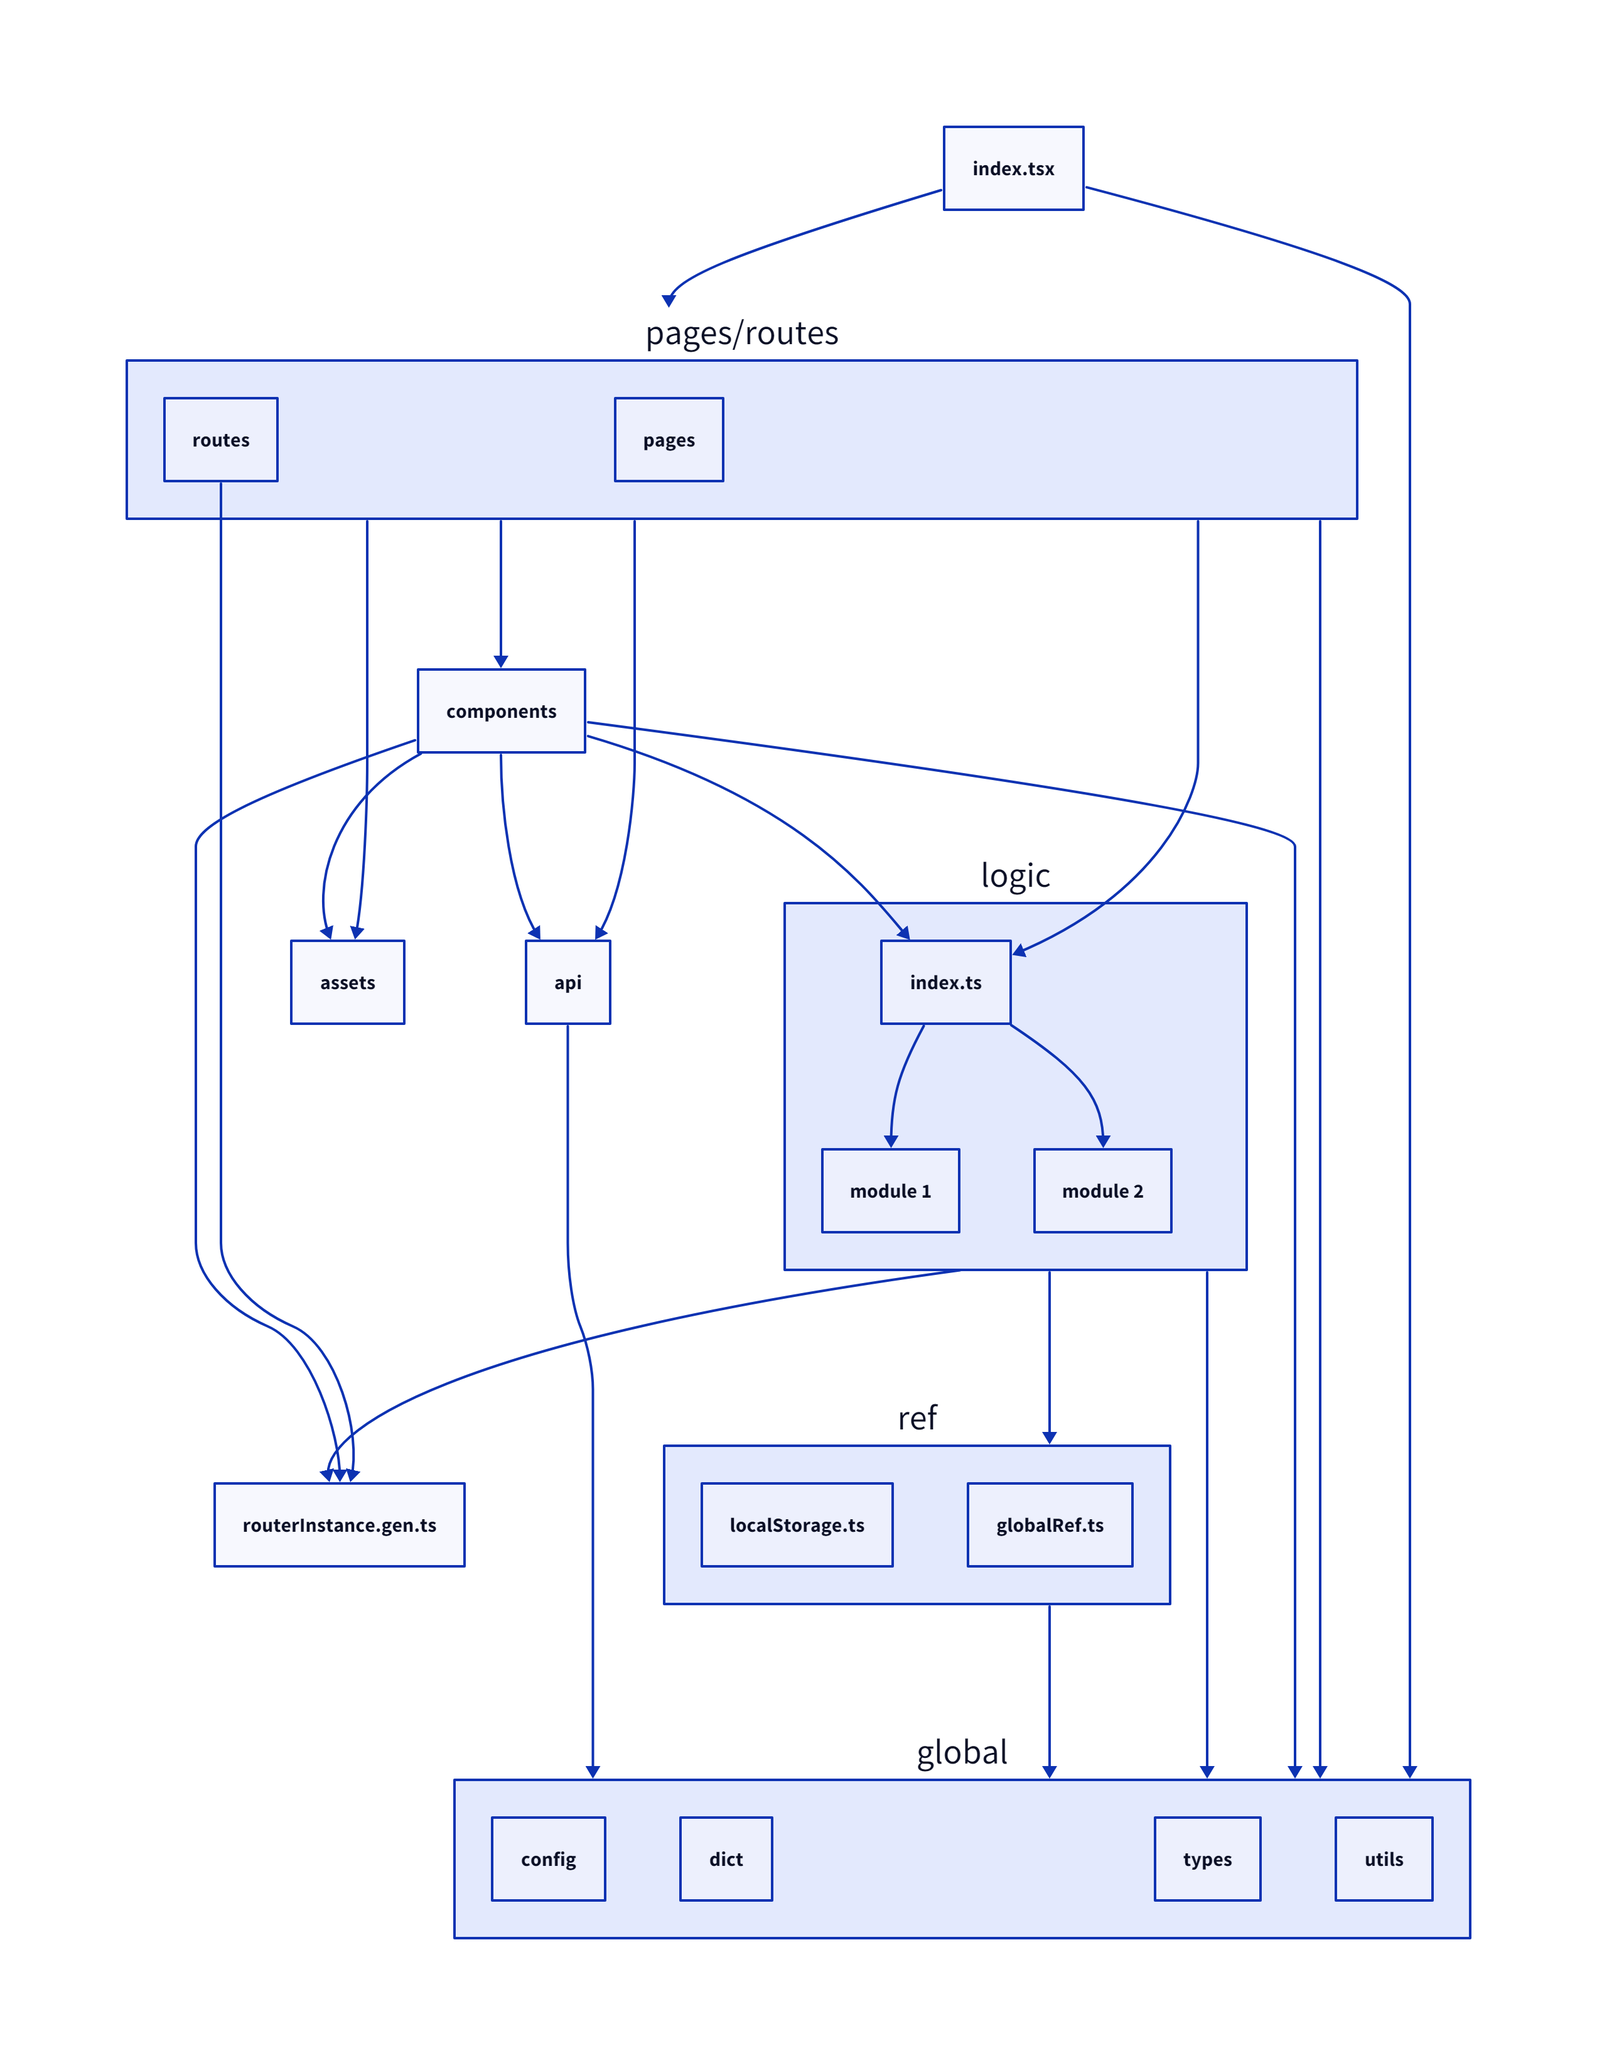
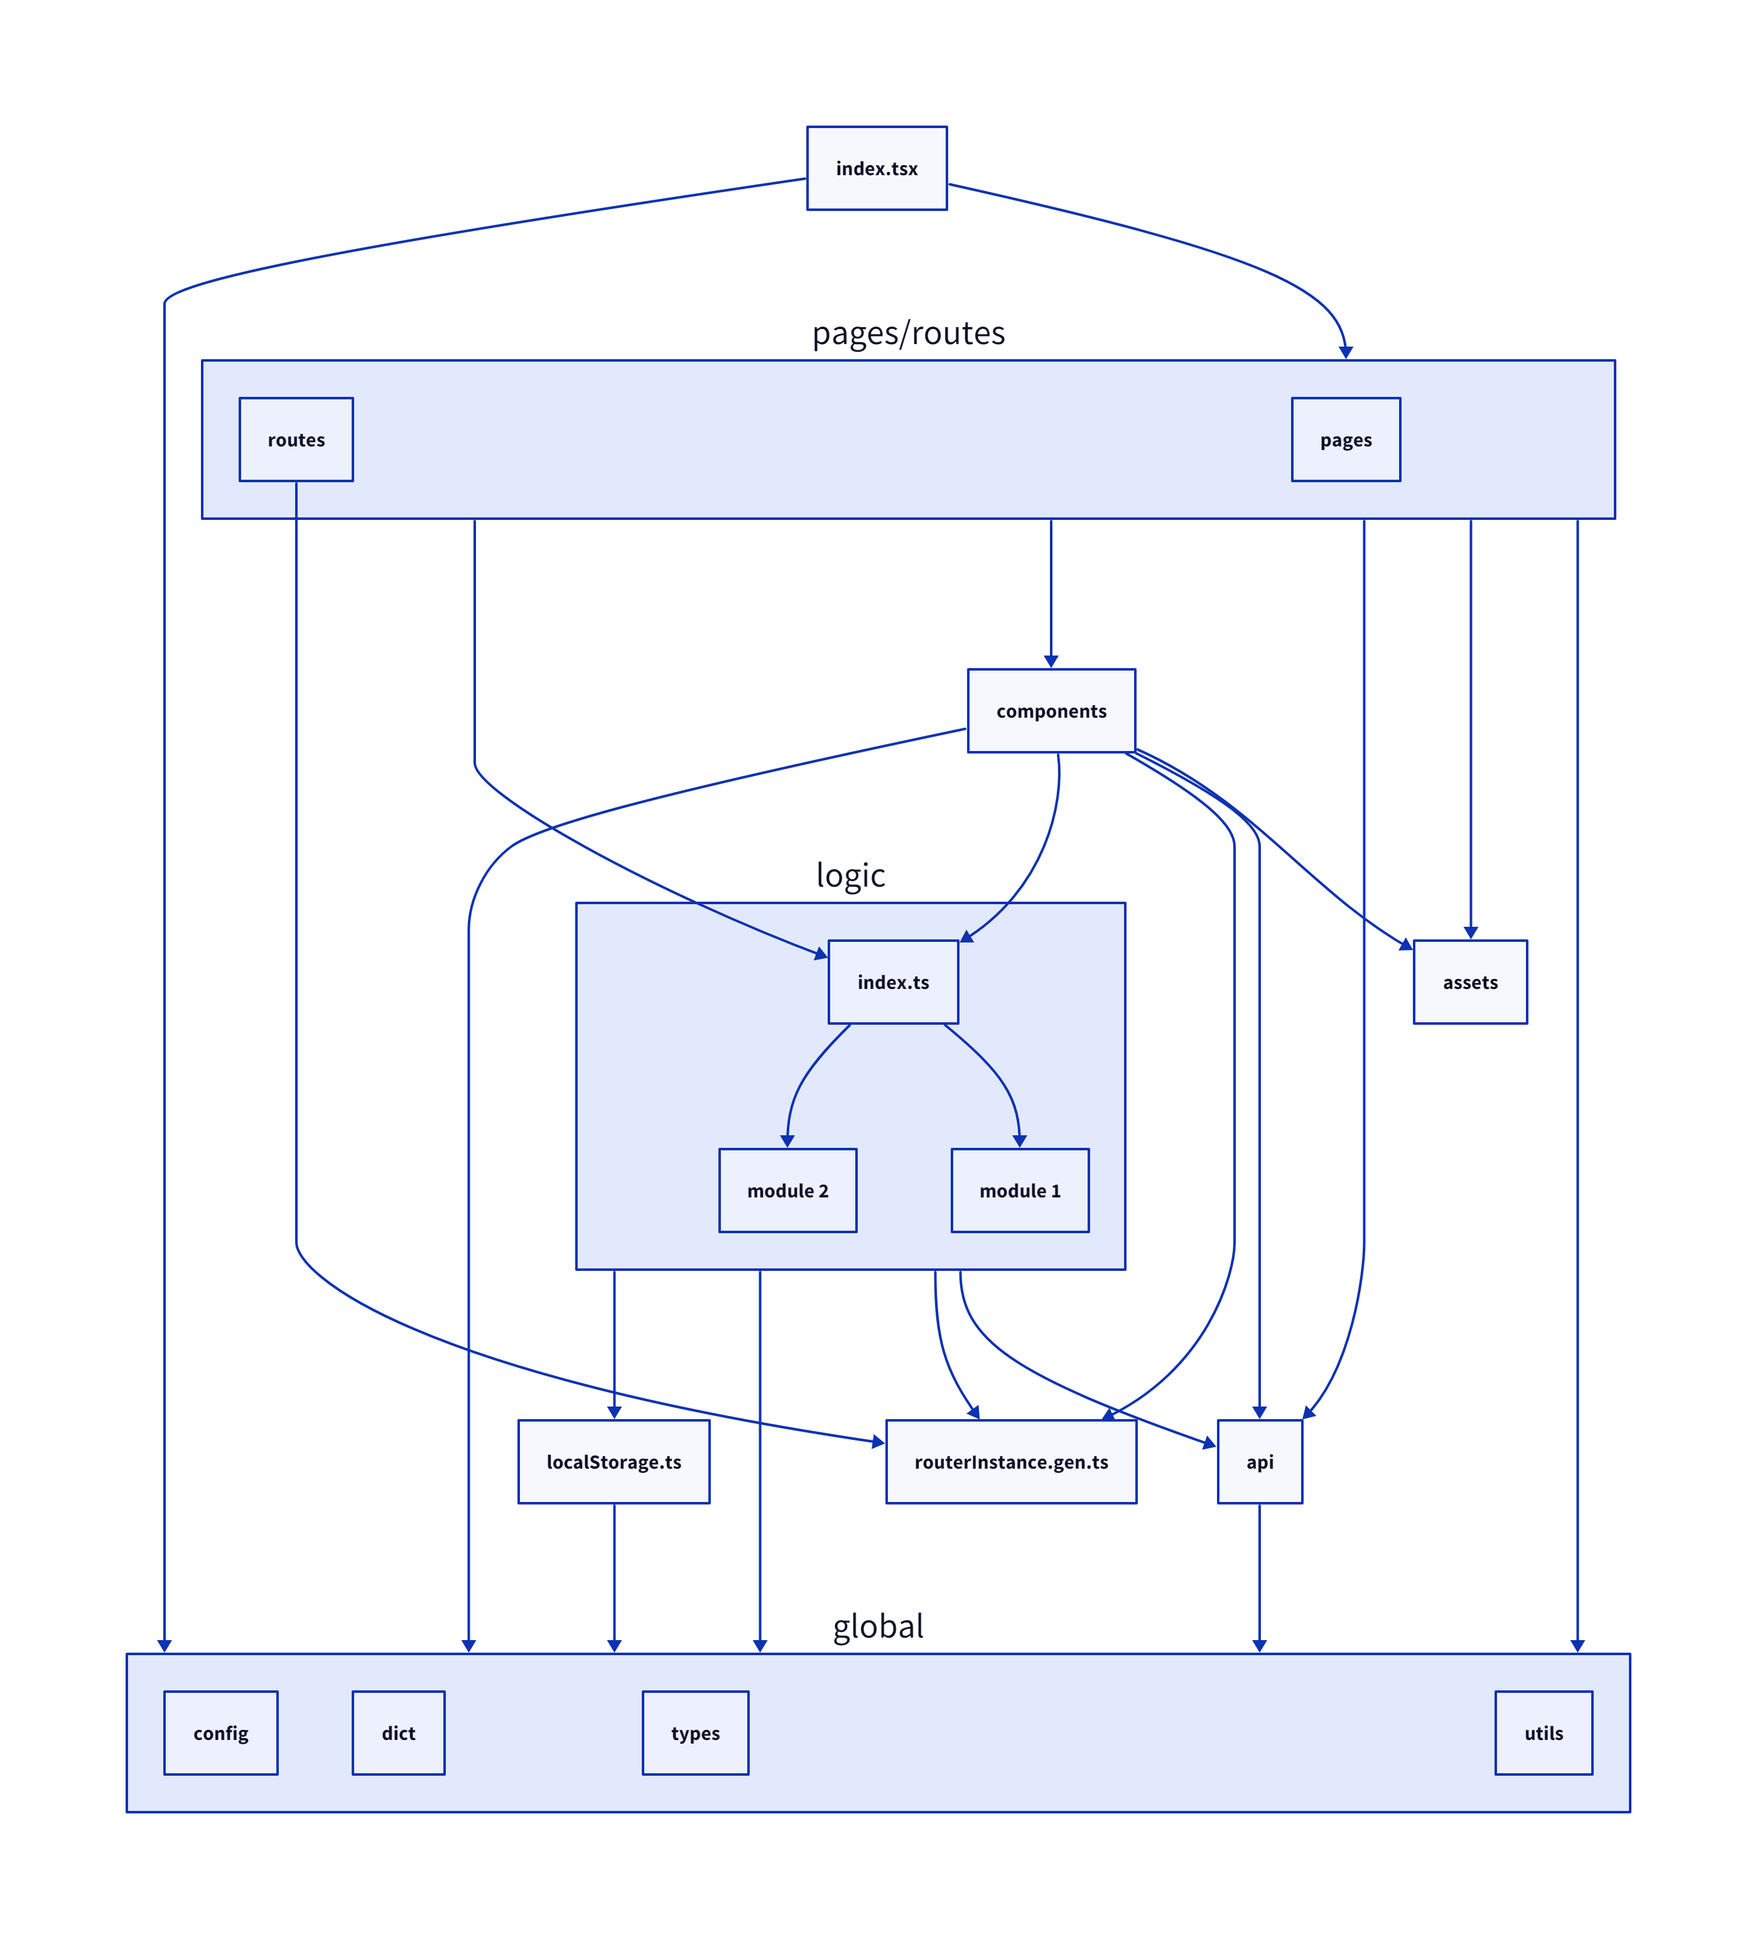
better ref + fn in logic

diff --git a/Client/src/components/todo/TodoItem.tsx b/Client/src/components/todo/TodoItem.tsx
@@ -1,7 +1,7 @@
 import type { Tr } from "@/dict/lang/en";
 import { app } from "@/logic";
 import type { Todo } from "@/types/Todo.type";
-import { forwardRef, useEffect, useRef } from "react";
+import { forwardRef, useRef } from "react";
 import "./TodoItem.css";
 
 export type TodoItemProps = { tr: Tr; todo: Todo; selected: boolean; draft: string | undefined };
@@ -12,12 +12,7 @@ export const TodoItem = forwardRef<HTMLLIElement, TodoItemProps>(function TodoIt
 	const editAria = tr.TodoEditAria.replace("{title}", todo.title);
 	const inputRef = useRef<HTMLInputElement>(null);
 
-	useEffect(() => {
-		if (isEditing && inputRef.current) {
-			inputRef.current.focus();
-			inputRef.current.select();
-		}
-	}, [isEditing]);
+	app.todos.effect.useFocusOnEdit(isEditing, inputRef);
 
 	return (
 		<li ref={ref} className={selected ? "todo-item todo-item-on" : "todo-item"}>
@@ -27,7 +22,7 @@ export const TodoItem = forwardRef<HTMLLIElement, TodoItemProps>(function TodoIt
 						type="checkbox"
 						className="checkbox"
 						checked={todo.done}
-						onChange={() => app.todos.todo.toggle(todo.id)}
+						onChange={() => app.todos.fn.todo.toggle(todo.id)}
 						aria-label={todo.title}
 						disabled={isEditing}
 					/>
@@ -38,14 +33,14 @@ export const TodoItem = forwardRef<HTMLLIElement, TodoItemProps>(function TodoIt
 							className="field todo-item-edit-field"
 							value={draft}
 							aria-label={editAria}
-							onChange={(e) => app.todos.todo.editing.start(todo.id, e.target.value)}
-							onKeyDown={app.todos.todo.editing.onKeyDownFn(todo.id, draft)}
-							onBlur={() => app.todos.commit.blur(todo.id, draft)}
+							onChange={(e) => app.todos.fn.todo.editing.start(todo.id, e.target.value)}
+							onKeyDown={app.todos.fn.todo.editing.onKeyDownFn(todo.id, draft)}
+							onBlur={() => app.todos.fn.commit.blur(todo.id, draft)}
 						/>
 					) : (
 						<span
 							className={todo.done ? "done" : undefined}
-							onDoubleClick={() => app.todos.todo.editing.start(todo.id, todo.title)}
+							onDoubleClick={() => app.todos.fn.todo.editing.start(todo.id, todo.title)}
 						>
 							{todo.title}
 						</span>
@@ -57,8 +52,8 @@ export const TodoItem = forwardRef<HTMLLIElement, TodoItemProps>(function TodoIt
 						className="link"
 						aria-label={tr.Cancel}
 						title={tr.Cancel}
-						onMouseDown={app.todos.commit.skipBlur}
-						onClick={() => app.todos.todo.editing.stop(todo.id)}
+						onMouseDown={app.todos.fn.commit.skipBlur}
+						onClick={() => app.todos.fn.todo.editing.stop(todo.id)}
 					>
 						{tr.Cancel}
 					</button>
@@ -69,7 +64,7 @@ export const TodoItem = forwardRef<HTMLLIElement, TodoItemProps>(function TodoIt
 							className="link"
 							aria-label={editAria}
 							title={editAria}
-							onClick={() => app.todos.todo.editing.start(todo.id, todo.title)}
+							onClick={() => app.todos.fn.todo.editing.start(todo.id, todo.title)}
 						>
 							{tr.TodoEdit}
 						</button>
@@ -79,13 +74,13 @@ export const TodoItem = forwardRef<HTMLLIElement, TodoItemProps>(function TodoIt
 							aria-label={openAria}
 							aria-current={selected ? "true" : undefined}
 							title={openAria}
-							onClick={app.route.todo.openFn(todo.id)}
+							onClick={app.route.fn.todo.openFn(todo.id)}
 						>
 							{tr.TodoOpen}
 						</button>
 					</>
 				)}
-				<button type="button" className="danger" onClick={() => app.todos.todo.remove(todo.id)}>
+				<button type="button" className="danger" onClick={() => app.todos.fn.todo.remove(todo.id)}>
 					{tr.TodoDelete}
 				</button>
 			</div>

diff --git a/Client/src/logic/todos.ts b/Client/src/logic/todos.ts
@@ -3,7 +3,8 @@ import { initialLocalStorageState } from "@/localStorage";
 import type { DoneFilter, Todo } from "@/types/Todo.type";
 import { store } from "@/utils/Store";
 import { wait } from "@/utils/utils";
-import type { KeyboardEvent } from "react";
+import type { KeyboardEvent, RefObject } from "react";
+import { useEffect } from "react";
 
 const state = {
 	data: store(initialLocalStorageState.todos),
@@ -107,35 +108,61 @@ const blurCommit = (id: string, draft: string | undefined) => {
 	commitEditingTodo_(id, draft);
 };
 
+const useFocusOnEdit = (isEditing: boolean, inputRef: RefObject<HTMLInputElement | null>) => {
+	useEffect(() => {
+		if (isEditing && inputRef.current) {
+			inputRef.current.focus();
+			inputRef.current.select();
+		}
+	}, [isEditing, inputRef]);
+};
+
+const useScrollToSelectedId = (selectedId: string | undefined, selectedRef: RefObject<HTMLLIElement | null>) =>
+	useEffect(() => {
+		if (selectedId && selectedRef.current) selectedRef.current.scrollIntoView({ block: "nearest", behavior: "smooth" });
+	}, [selectedId, selectedRef]);
+
 export const todos = {
 	state: state,
 	ref: ref,
-	todo: {
-		addRandom: addRandomTodo,
-		add: addTodo,
-		remove: removeTodo,
-		toggle: toggleTodo,
-		clearCompleted: clearCompletedTodos,
-		editing: {
-			start: startEditingTodo,
-			stop: stopEditingTodo,
-			onKeyDownFn: onKeyDownFn,
+	fn: {
+		todo: {
+			add: addTodo,
+			remove: removeTodo,
+			toggle: toggleTodo,
+			editing: {
+				start: startEditingTodo,
+				stop: stopEditingTodo,
+				onKeyDownFn: onKeyDownFn,
+			},
+			random: {
+				add: addRandomTodo,
+			},
+		},
+		todos: {
+			completed: {
+				clear: clearCompletedTodos,
+			},
+			visible: {
+				get: getVisibleTodos,
+			},
+		},
+		doneFilter: {
+			update: updateDoneFilter,
+		},
+		search: {
+			update: updateSearch,
+		},
+		newTodo: {
+			update: updateNewTodo,
+		},
+		commit: {
+			blur: blurCommit,
+			skipBlur: skipBlurCommit,
 		},
 	},
-	doneFilter: {
-		update: updateDoneFilter,
-	},
-	search: {
-		update: updateSearch,
-	},
-	visibleTodos: {
-		get: getVisibleTodos,
-	},
-	newTodo: {
-		update: updateNewTodo,
-	},
-	commit: {
-		blur: blurCommit,
-		skipBlur: skipBlurCommit,
+	effect: {
+		useFocusOnEdit: useFocusOnEdit,
+		useScrollToSelectedId: useScrollToSelectedId,
 	},
 };

diff --git a/Client/src/components/todo/TodoList.tsx b/Client/src/components/todo/TodoList.tsx
@@ -1,6 +1,6 @@
 import type { Tr } from "@/dict/lang/en";
 import { app } from "@/logic";
-import { useEffect, useMemo, useRef } from "react";
+import { useMemo, useRef } from "react";
 import { TodoItem } from "./TodoItem";
 import "./TodoList.css";
 
@@ -10,13 +10,11 @@ export const TodoList = ({ tr, selectedId }: TodoListProps) => {
 	const items = app.todos.state.data.use();
 	const doneFilter = app.todos.state.doneFilter.use();
 	const search = app.todos.state.search.use();
-	const visibleTodos = useMemo(() => app.todos.visibleTodos.get(items, doneFilter, search), [items, doneFilter, search]);
-	const selRef = useRef<HTMLLIElement>(null);
+	const visibleTodos = useMemo(() => app.todos.fn.todos.visible.get(items, doneFilter, search), [items, doneFilter, search]);
+	const selectedRef = useRef<HTMLLIElement>(null);
 	const editingData = app.todos.state.editingData.use();
 
-	useEffect(() => {
-		if (selectedId && selRef.current) selRef.current.scrollIntoView({ block: "nearest", behavior: "smooth" });
-	}, [selectedId, visibleTodos]);
+	app.todos.effect.useScrollToSelectedId(selectedId, selectedRef);
 
 	return (
 		<ul className="todo-list">
@@ -24,7 +22,7 @@ export const TodoList = ({ tr, selectedId }: TodoListProps) => {
 			{visibleTodos.map((t) => (
 				<TodoItem
 					key={t.id}
-					ref={t.id === selectedId ? selRef : undefined}
+					ref={t.id === selectedId ? selectedRef : undefined}
 					tr={tr}
 					todo={t}
 					selected={t.id === selectedId}

diff --git a/Client/src/logic/route.ts b/Client/src/logic/route.ts
@@ -1,6 +1,5 @@
 import { STATIC_CONFIG } from "@/config/cliConfig";
 import type { Tr } from "@/dict/lang/en";
-import { globalRef } from "@/globalRef";
 import { BasicRouter } from "@/utils/BasicRouter";
 
 const router = new BasicRouter(["/", "/todo?id", "/404"], true);
@@ -11,22 +10,30 @@ const state = {
 	route: router.getRouteStore(),
 };
 
+const ref = {
+	currentTodoId: undefined as string | undefined,
+	lastOpenedTodoId: undefined as string | undefined,
+};
+
 const openTodoFn = (todoId: string) => () => {
-	globalRef.lastOpenedTodoId = globalRef.currentTodoId;
-	globalRef.currentTodoId = todoId;
+	ref.lastOpenedTodoId = ref.currentTodoId;
+	ref.currentTodoId = todoId;
 	router.navigateToRouteFn("/todo?id", { id: todoId })();
 };
 
 const openLastOpenedTodoFn = (tr: Tr) => () => {
-	if (globalRef.lastOpenedTodoId) openTodoFn(globalRef.lastOpenedTodoId)();
+	if (ref.lastOpenedTodoId) openTodoFn(ref.lastOpenedTodoId)();
 	else window.alert(tr.TodoOpenLastOpenedNone);
 };
 
 export const route = {
 	state: state,
-	navigateToRouteFn: router.navigateToRouteFn,
-	todo: {
-		openFn: openTodoFn,
-		openLastOpenedFn: openLastOpenedTodoFn,
+	ref: ref,
+	fn: {
+		navigateToRouteFn: router.navigateToRouteFn,
+		todo: {
+			openFn: openTodoFn,
+			openLastOpenedFn: openLastOpenedTodoFn,
+		},
 	},
 };

diff --git a/Client/src/components/todo/TodoNewForm.tsx b/Client/src/components/todo/TodoNewForm.tsx
@@ -15,14 +15,14 @@ export const TodoNewForm = ({ tr }: TodoNewFormProps) => {
 				className="row"
 				onSubmit={(e) => {
 					e.preventDefault();
-					app.todos.todo.add(draft);
-					app.todos.newTodo.update("");
+					app.todos.fn.todo.add(draft);
+					app.todos.fn.newTodo.update("");
 				}}
 			>
 				<input
 					className="field"
 					value={draft}
-					onChange={(e) => app.todos.newTodo.update(e.target.value)}
+					onChange={(e) => app.todos.fn.newTodo.update(e.target.value)}
 					placeholder={tr.TodoPlaceholder}
 					autoComplete="off"
 					aria-label={tr.TodoPlaceholder}
@@ -35,7 +35,7 @@ export const TodoNewForm = ({ tr }: TodoNewFormProps) => {
 					className="todo-add-random"
 					disabled={randomLoading}
 					aria-busy={randomLoading}
-					onClick={() => app.todos.todo.addRandom()}
+					onClick={app.todos.fn.todo.random.add}
 				>
 					{randomLoading ? tr.TodoAddRandomLoading : tr.TodoAddRandom}
 				</button>

diff --git a/Client/src/logic/config.ts b/Client/src/logic/config.ts
@@ -42,20 +42,22 @@ const resetAllConfigValues = () => {
 
 export const config = {
 	state: state,
-	value: {
-		display: displayConfigValue,
-		displayAll: displayAllConfigValues,
-		update: updateConfigValue,
-		reset: resetConfigValue,
-		resetAll: resetAllConfigValues,
+	fn: {
+		value: {
+			display: displayConfigValue,
+			displayAll: displayAllConfigValues,
+			update: updateConfigValue,
+			reset: resetConfigValue,
+			resetAll: resetAllConfigValues,
+		},
 	},
 };
 
 declare global {
 	interface Window {
-		config: typeof config.value;
+		config: typeof config.fn.value;
 	}
 }
 
 // expose config display and update
-window.config = config.value;
+window.config = config.fn.value;

diff --git a/Client/src/components/todo/TodoAppHeader.tsx b/Client/src/components/todo/TodoAppHeader.tsx
@@ -9,10 +9,10 @@ export type TodoAppHeaderProps = { tr: Tr };
 export const TodoAppHeader = ({ tr }: TodoAppHeaderProps) => (
 	<header>
 		<div className="page-header-nav">
-			<button type="button" className="link" onClick={app.route.navigateToRouteFn("/")}>
+			<button type="button" className="link" onClick={app.route.fn.navigateToRouteFn("/")}>
 				{tr.TodoBackHome}
 			</button>
-			<button type="button" className="link" onClick={app.route.todo.openLastOpenedFn(tr)}>
+			<button type="button" className="link" onClick={app.route.fn.todo.openLastOpenedFn(tr)}>
 				{tr.TodoOpenLastOpened}
 			</button>
 		</div>

diff --git a/Client/src/components/todo/TodoFooter.tsx b/Client/src/components/todo/TodoFooter.tsx
@@ -23,14 +23,14 @@ export const TodoFooter = ({ tr, items }: TodoFooterProps) => {
 						key={f}
 						type="button"
 						className={doneFilter === f ? "pill on" : "pill"}
-						onClick={() => app.todos.doneFilter.update(f)}
+						onClick={() => app.todos.fn.doneFilter.update(f)}
 					>
 						{label(f)}
 					</button>
 				))}
 			</div>
 			{doneCount > 0 && (
-				<button type="button" className="link clear" onClick={() => app.todos.todo.clearCompleted()}>
+				<button type="button" className="link clear" onClick={app.todos.fn.todos.completed.clear}>
 					{tr.TodoClearCompleted}
 				</button>
 			)}

diff --git a/Client/src/components/_common/DarkModeButton.tsx b/Client/src/components/_common/DarkModeButton.tsx
@@ -31,7 +31,7 @@ export const DarkModeButton = ({ tr }: DarkModeButtonProps) => {
 			aria-pressed={isDark}
 			aria-label={isDark ? tr.ThemeSwitchToLight : tr.ThemeSwitchToDark}
 			title={isDark ? tr.ThemeSwitchToLight : tr.ThemeSwitchToDark}
-			onClick={app.colorScheme.updateFn(isDark ? "light" : "dark", true)}
+			onClick={app.colorScheme.fn.updateFn(isDark ? "light" : "dark", true)}
 		>
 			<span className="dark-mode-button-track" aria-hidden>
 				<span className="dark-mode-button-thumb">{isDark ? <IconMoon /> : <IconSun />}</span>

diff --git a/Client/src/pages/NotFound.tsx b/Client/src/pages/NotFound.tsx
@@ -18,7 +18,7 @@ export const NotFound = () => {
 			<main className="not-found-main">
 				<h1 className="not-found-title">{tr.NotFoundTitle}</h1>
 				<p className="not-found-text">{tr.GoToHomePage}</p>
-				<button type="button" className="not-found-btn" onClick={app.route.navigateToRouteFn("/")}>
+				<button type="button" className="not-found-btn" onClick={app.route.fn.navigateToRouteFn("/")}>
 					{tr.GoToHomePage}
 				</button>
 			</main>

diff --git a/Client/src/pages/Home.tsx b/Client/src/pages/Home.tsx
@@ -18,7 +18,7 @@ export const Home = () => {
 			<main className="home-main">
 				<h1 className="home-title">{tr.Home}</h1>
 				<p className="home-subtitle">{tr.HomeSubtitle}</p>
-				<button type="button" className="home-cta" onClick={app.route.navigateToRouteFn("/todo?id", {})}>
+				<button type="button" className="home-cta" onClick={app.route.fn.navigateToRouteFn("/todo?id", {})}>
 					{tr.OpenTodos}
 				</button>
 			</main>

diff --git a/Client/src/components/_common/LangButton.tsx b/Client/src/components/_common/LangButton.tsx
@@ -19,7 +19,7 @@ export const LangButton = ({ tr }: LangButtonProps) => {
 			aria-busy={loading}
 			aria-label={loading ? tr.LangLoading : switchLabel}
 			title={loading ? tr.LangLoading : switchLabel}
-			onClick={app.lang.updateFn(lang === "en" ? "fr" : "en", true)}
+			onClick={app.lang.fn.updateFn(lang === "en" ? "fr" : "en", true)}
 		>
 			{loading ? (
 				<span className="lang-button-spinner" aria-hidden />
